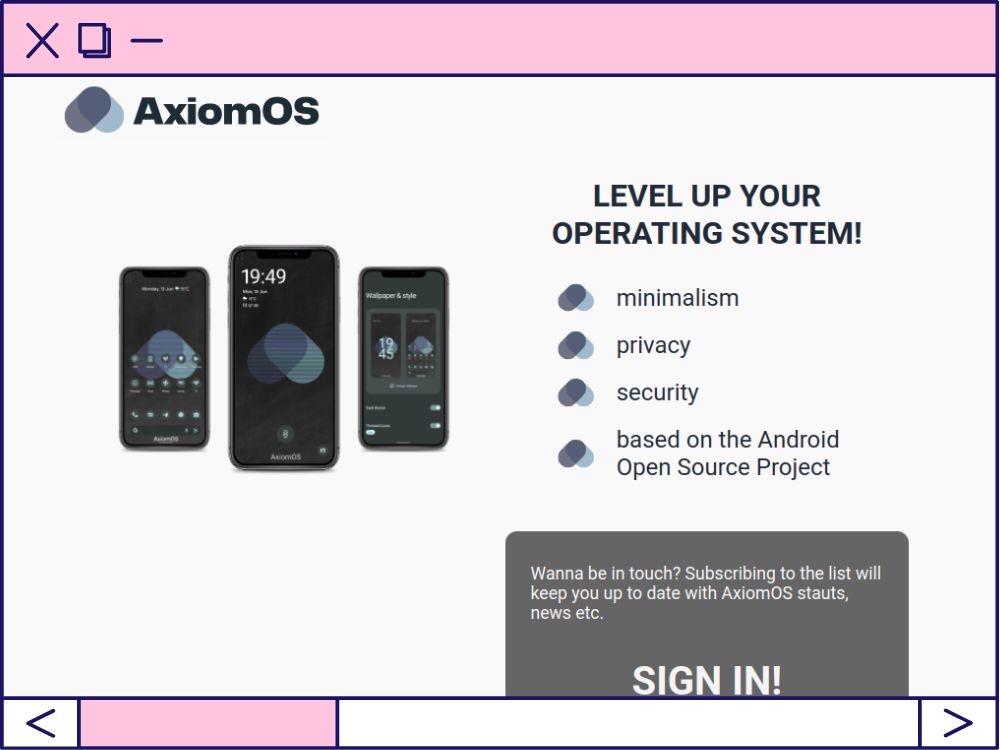
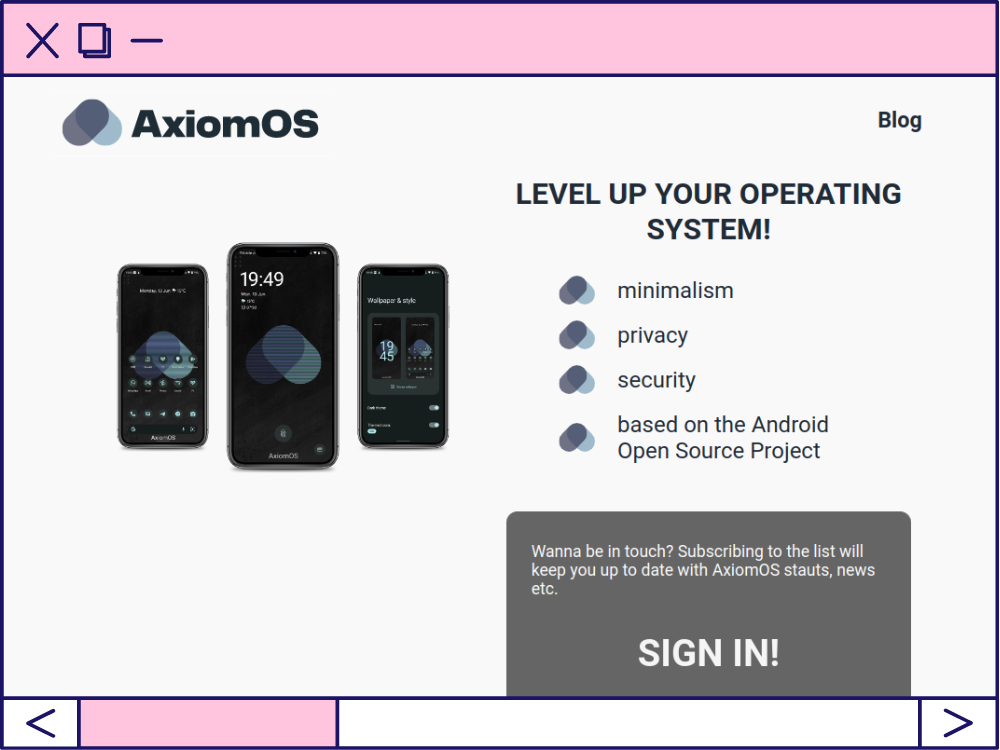
Changed background in Main, add hover to socials

diff --git a/src/components/Portfolio.js b/src/components/Portfolio.js
@@ -41,7 +41,7 @@ const Portfolio = () => {
             <p>Commercial project. Website for a mobile operating system which is helping users stay private in a world where everyone follows you. The project includes HTTP requests (subscribing to the mailing list) and a countdown to the premiere of the new version of the system.</p>
             {standardSetTools}
             <div className={styles.linksContainer}>
-              <button><a href="http://web.axiomos.pl/" target="_blank" rel="noopener noreferrer">View it here</a></button>
+              <button><a href="http://axiomos.pl/" target="_blank" rel="noopener noreferrer">View it here</a></button>
               <button><a href="https://github.com/pinkjagnie/axiom-os" target="_blank" rel="noopener noreferrer">View GitHub repo</a></button>
             </div>
           </div>
@@ -56,7 +56,7 @@ const Portfolio = () => {
           </figure>
           <div className={styles.projectDescription}>
             <h2>AxiomOS Hub</h2>
-            <p>Commercial project. This website is part of AxiomOS where the user can view application privacy reports and analyzes. The project includes search bar and Lorem ipsum dolor............. </p>
+            <p>Commercial project. This website is part of AxiomOS where the user can view application privacy reports and analyzes. The project includes React Router, HTTP requests (search bar and the ability to add your application to the list).</p>
             {standardSetTools}
             <div className={styles.linksContainer}>
               <button><a href="http://web.axiomos.pl/" target="_blank" rel="noopener noreferrer">View it here</a></button>
@@ -74,7 +74,7 @@ const Portfolio = () => {
           </figure>
           <div className={styles.projectDescription}>
             <h2>Pink Jagnie portfolio</h2>
-            <p>A portfolio that is not boring. A website that, apart from my skills, also shows my personality.</p>
+            <p>A portfolio that is not boring. A website that, apart from my skills, also shows my personality. Built with React.</p>
             {standardSetTools}
             <div className={styles.linksContainer}>
               <button><a href="http://pinkjagnie.pl/" target="_blank" rel="noopener noreferrer">View it here</a></button>
@@ -92,7 +92,7 @@ const Portfolio = () => {
           </figure>
           <div className={styles.projectDescription}>
             <h2>Flowerstore "Twój bukiet"</h2>
-            <p>The beginning of my journey. A website of fictional flowerstore built to learn CSS, using jQuery.</p>
+            <p>The beginning of my journey. A website of fictional flowerstore built to learn CSS, using some jQuery.</p>
             <div className={styles.boxIcon}>
               <AiFillHtml5 className={styles.icon}/>
               <DiCss3 className={styles.icon}/>

diff --git a/src/components/main.module.css b/src/components/main.module.css
@@ -3,7 +3,7 @@
   width: 100%;
   margin: 0;
   padding: 0;
-  background-image: url("../img/cover_background.png");
+  background-image: url("../img/cover_background_1000-943.png");
   background-size: cover;
   background-repeat: no-repeat;
 }
@@ -91,8 +91,8 @@
   .headerContainer {
     position: relative;
     height: 100vh;
-    background-image: url("../img/4cover_background.png");
-    color: whitesmoke
+    background-image: url("../img/5cover_background.png");
+    color: #1f2b37;
   }
 
   .headerBack {
@@ -113,7 +113,7 @@
 
   .underlineTitle {
     width: 50vw;
-    background-color: whitesmoke;
+    background-color: #1f2b37;
   }
 }
 

diff --git a/src/components/portfolio.module.css b/src/components/portfolio.module.css
@@ -1,7 +1,7 @@
 .portfolioContainer {
   height: 525vh;
   width: 100%;
-  overflow: hidden;
+  overflow-x: hidden;
 }
 
 .portfolioContainer h1 {
@@ -74,13 +74,13 @@
 	height: 100%;
 }
 
-.grid .flexContainer figure figcaption > a {
+/* .grid .flexContainer figure figcaption > a {
 	z-index: 1000;
 	text-indent: 200%;
 	white-space: nowrap;
 	font-size: 0;
 	opacity: 0;
-}
+} */
 
 .grid .flexContainer figure p {
 	margin: 0;
@@ -117,8 +117,8 @@ figure.effectApollo figcaption::before {
 
 figure.effectApollo p {
 	position: absolute;
-	right: 15%;
-	bottom: 20%;
+	right: 20%;
+	bottom: 25%;
   max-width: 150px;
 	padding: 0 1em;
   margin: 3em;

diff --git a/src/components/contact.module.css b/src/components/contact.module.css
@@ -1,7 +1,7 @@
 .contactContainer {
   height: 145vh;
   width: 100%;
-  overflow: hidden;
+  overflow-x: hidden;
 }
 
 /* .sheepImage {
@@ -221,6 +221,14 @@
 
   .social,
   .mail {
+    color: #ac0560;
+  }
+
+  .social:hover {
+    color: #1f2b37;
+  }
+
+  .socialBox a:hover {
     color: #ac0560;
   }
 }
